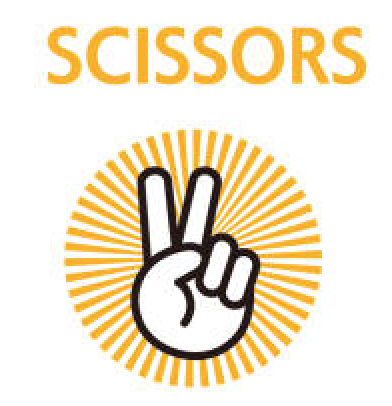
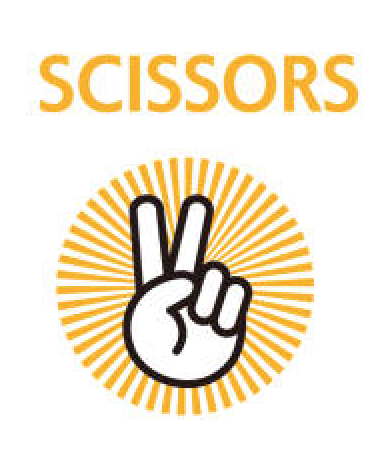
conditional finished

diff --git a/script.js b/script.js
@@ -1,0 +1,98 @@
+// const scoreBoard = querySelector(".score board")
+// const userBoard = querySelector("#user board")
+// const userScore = querySelector("#user score")
+// const computerScore = querySelector("#computer score")
+// const result = querySelector(".result")
+
+
+
+
+
+// const btn = document.querySelector("button")
+//btn.addEventListener('click', function(evt){
+const userChoice = document.querySelector('.choices')
+const imgChoice = document.querySelector(".choice")
+const rock_div = document.querySelector("#rock")
+const paper_div = document.querySelector("#paper")
+const scissores_div = document.querySelector("#scissors")
+let userScore = 0
+let computerScore = 0
+function getComputerChoice(){
+    const choice = ["rock","paper","scissors"]
+    const computerRandom = Math.floor(Math.random()*3)
+    return choice[computerRandom]
+}
+getComputerChoice() //why not work in eventListener
+
+
+
+rock_div.addEventListener('click', function(){
+    getComputerChoice()
+    const choice = ["rock","paper","scissors"] //function cannot work,need redefine here
+    const computerRandom = Math.floor(Math.random()*3)
+ 
+    if(choice[computerRandom] === "scissors"){
+        console.log("rock covers scissors, you win!")
+        userScore++
+    }
+    if(choice[computerRandom]  === "paper"){
+        console.log("rock cannot cover paper, you lose!")
+        computerScore++
+    }
+    if(choice[computerRandom]  === "rock"){
+        console.log("It's a draw")
+    }
+})  
+
+paper_div.addEventListener('click', function(){
+    const choice = ["rock","paper","scissors"]
+    const computerRandom = Math.floor(Math.random()*3)
+     
+    if(choice[computerRandom] === "rock"){
+        console.log("scissors cannnot cover rock , you lose!")
+        computerScore++
+    }
+    if(choice[computerRandom]  === "paper"){
+        console.log("scissors covers paper, you win!")
+        userScore++
+    }
+    if(choice[computerRandom]  === "scissors"){
+        console.log("It's a draw")
+     }
+})
+
+scissores_div.addEventListener('click', function(){
+    const choice = ["rock","paper","scissors"]
+    const computerRandom = Math.floor(Math.random()*3)  
+    if(choice[computerRandom] === "rock"){
+        console.log("paper covers rock, you win!")
+        userScore++
+    }
+    if(choice[computerRandom]  === "paper"){
+        console.log("It's a draw")
+        userScore++
+    }
+    if(choice[computerRandom] === "scissors"){
+        console.log("paper cannot cover scissors, you lose!")
+        computerScore++
+    }
+})
+
+    // return
+    // })
+//     if(userScore === 10 || computerScore === 10){
+//         console.log("Game over!")
+//     }
+//  })
+// })
+//  })
+
+
+//click play button ,
+//show three imgs
+//user choose one img to click,the img clicked addeventListener
+// computer random
+// if conditional
+// creat user object{name,score},add action method
+// if user win,user score++,if user lose ,computer score++
+// if score = 10,game over

diff --git a/index.html b/index.html
@@ -18,18 +18,18 @@
         <p id = "result textcontent">Scissors covers Paper, You Win!</p>
     </div>
     <div class = "choices">
-        <div class = "choice", id = "Rock">
+        <div class = "choice", id = "rock">
           <img src = "rock.png">
         </div>
-        <div class = "choice", id = "Paper">
+        <div class = "choice", id = "paper">
            <img src = "paper.png">
         </div>
-        <div class = "choice", id = "Scissors">
+        <div class = "choice", id = "scissors">
            <img src = "scissors.png">
         </div>
     </div>
     <!-- <p class = "play">Play</p> -->
-    <button>"play"</button>
+    <button>play</button>
   
     
 </body>

diff --git a/style.css b/style.css
@@ -2,14 +2,23 @@ header {
 text-align: center;
 color: blueviolet;
 font-family: 'Times New Roman', Times, serif;
-font-size: 30px ;
+font-size: 40px ;
 
 }
 body{
+    padding:100px 50px;
     background-color: beige;
     padding: 50px 50px;
+    font-size: 30px;
 }
+.choices{
+    text-align: center;
+
+}
+.choice{
+    display: inline-block;
+    padding: 20px 10px;
+} 
 img{
-    position: relative;
-    size: 10px;
+    width: 200px;
 }
